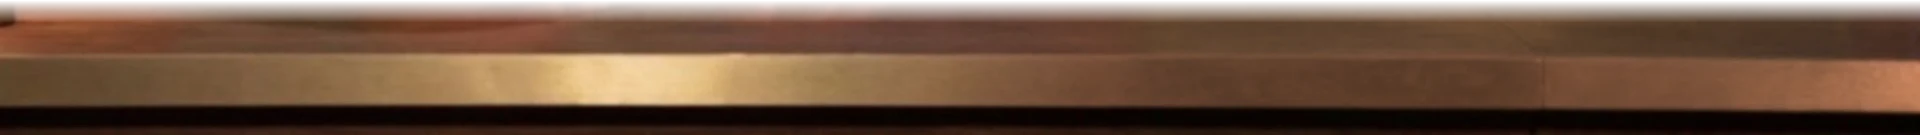
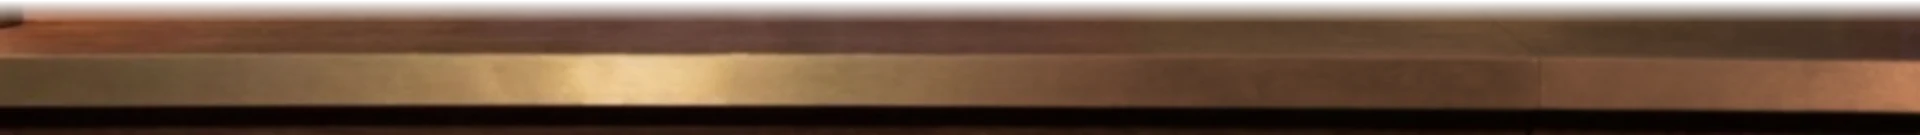
fix: The Gilded Reel's host is not cut off mid-sentence, and has no ghost hand
Each speech session takes any sound from its user as a barge-in, so the
guest's "Oh," or "hmm" kept cutting the host off mid-sentence. While one of
them speaks, the other's voice is no longer passed to them; a real pause still
lets the other answer.

The set had been outpainted from the host's own still, so where her render
fades into it the still's hand showed through as a third hand. The set is now
the same studio with nobody at the desk.

diff --git a/apps/tv-show-live/page/App.tsx b/apps/tv-show-live/page/App.tsx
@@ -128,6 +128,11 @@ export function App() {
   const lines = useRef<Partial<Record<Role, SpeechLine>>>({});
   const words = useRef<Record<Role, string>>({ host: '', guest: '' });
   const segment = useRef<Guest | null>(null);
+  // Who is speaking now (their voice's stretch): while one speaks, the other's voice is not passed
+  // to them. Each session takes any sound from its user as a barge-in, and live a guest's "Oh,"
+  // or "hmm" cut the host off mid-sentence again and again. A pause longer than the voice's
+  // stretch still lets the other answer.
+  const talking = useRef<Record<Role, boolean>>({ host: false, guest: false });
 
   // Each avatar's voice: its face says it, the other avatar hears it, and the booth sees when it speaks.
   const voices = useMemo(() => {
@@ -136,9 +141,10 @@ export function App() {
       const resample = createResampler();
       const voice = createVoice({
         // The voice's stretches say when the avatar speaks, for the booth and the transcript.
-        onStart() { booth.current?.speaking(role, true); director.current?.speaking(role, true); },
+        onStart() { talking.current[role] = true; booth.current?.speaking(role, true); director.current?.speaking(role, true); },
         onFrame() {},
         onEnd() {
+          talking.current[role] = false;
           booth.current?.speaking(role, false);
           director.current?.speaking(role, false);
           const said = words.current[role].trim();
@@ -168,7 +174,7 @@ export function App() {
       const line = await openSpeech(seatApi(role), {
         onAudio(b64, pcm) {
           voices[role].feed(pcm);
-          lines.current[other]?.hear(b64);
+          if (!talking.current[other]) lines.current[other]?.hear(b64);
         },
         onWords(delta) { words.current[role] += delta; },
         onClosed(reason) { if (booth.current && booth.current.stage !== 'over') offAir(`${role === 'host' ? HOST.name : segment.current?.name} left the line (${reason}).`); },
